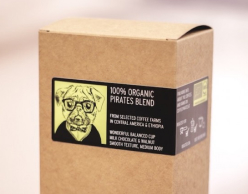
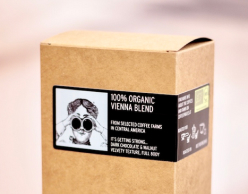
- заполнен массив каталога для эспрессо (6 товаров) - добавлена функция скролла и вызова скролла - доработано наполнение элементов

diff --git a/js/catalog.js b/js/catalog.js
@@ -2,36 +2,72 @@ const catalog = [
     {
         id: 0,
         title: 'Пиратский бленд',
-        image: 'img/item-image/001.jpg',
+        image: 'img/item-image/000.jpg',
         region: 'Эфиопия, Колумбия',
         description: 'Легендарная и на 100% органическая смесь эспрессо для настоящих разбойников',
         kislotnost: 70,
-        gorech: 35,
+        gorech: 80,
         plotnost: 15,
-        price_low: 685,
-        price_big: 2450,
+        price_low: 1020,
+        price_big: 3870,
     },
     {
         id: 1,
-        title: 'Бла-бла-бла',
+        title: 'Венская смесь',
         image: 'img/item-image/001.jpg',
-        region: 'Гватемалла',
-        description: 'Просто очень вкусный кофе',
-        kislotnost: 25,
-        gorech: 50,
-        plotnost: 75,
-        price_low: 560,
-        price_big: 2120,
+        region: 'Колумбия, Гондурас, Гватемалла',
+        description: 'Смелый европейскй бленд, пользующийся популярностью по всему миру. Во вкусе лимон, ягоды и шоколад.',
+        kislotnost: 50,
+        gorech: 60,
+        plotnost: 20,
+        price_low: 1070,
+        price_big: 4100,
+    },
+    {
+        id: 2,
+        title: 'Колумбия Ла Ред Эколсиерра',
+        image: 'img/item-image/002.jpg',
+        region: 'Колумбия',
+        description: 'Деликатный и хорошо читаемый кофе со вкусом лесных ягод, чая с цитрусами и цветочными нотами!',
+        kislotnost: 30,
+        gorech: 80,
+        plotnost: 10,
+        price_low: 1035,
+        price_big: '---',
     },
     {
         id: 3,
-        title: 'Хаха получилось',
-        image: 'img/item-image/001.jpg',
-        region: 'Индонезия',
-        description: 'Описание будет позже',
-        kislotnost: 90,
-        gorech: 20,
-        plotnost: 35,
+        title: 'Сальвадор Ана Гонзалез',
+        image: 'img/item-image/003.jpg',
+        region: 'Сальвадор',
+        description: 'Сладкий сбалансированный кофе с нотами запеченного яблока, фейхоа и ореховыми нотами.',
+        kislotnost: 50,
+        gorech: 85,
+        plotnost: 15,
+        price_low: 820,
+        price_big: 2450,
+    },
+    {
+        id: 4,
+        title: 'Гондурас Комса',
+        image: 'img/item-image/004.jpg',
+        region: 'Гондурас',
+        description: 'Яркий и искристый кофе со вкусом темных фруктов, ягод и портвейна!',
+        kislotnost: 70,
+        gorech: 60,
+        plotnost: 15,
+        price_low: 890,
+        price_big: 3450,
+    },
+    {
+        id: 5,
+        title: 'Колумбия Дёзи Харт',
+        image: 'img/item-image/005.jpg',
+        region: 'Колумбия',
+        description: 'Яркий кофе с букетом тропических фруктов: гуава, папайя, ананас, и арбузно-сливочным пломбиром во вкусе и характерной молочной ',
+        kislotnost: 30,
+        gorech: 60,
+        plotnost: 70,
         price_low: 710,
         price_big: 2200,
     }

diff --git a/test.html b/test.html
@@ -1,0 +1,90 @@
+<html lang="ru">
+
+<head>
+    <title>Sling Academy</title>
+    <!-- CSS -->
+    <style>
+        * {
+            margin: 0;
+            padding: 0;
+        }
+
+        body {
+            padding: 40px;
+        }
+
+        button {
+            padding: 10px;
+            margin: 10px 20px 10px 0;
+            border: 1px solid black;
+            border-radius: 5px;
+            cursor: pointer;
+        }
+
+        button:hover {
+            background-color: orange;
+        }
+
+        #myDiv {
+            width: 400px;
+            height: 200px;
+            overflow-y: scroll;
+            border: 1px solid black;
+            background: rgb(244, 233, 214);
+        }
+    </style>
+
+    <!-- JavaScript -->
+    <script>
+        // define a function to scroll to the bottom of the div
+        const scrollToBottom = () => {
+            // get the div element by its id
+            const div = document.getElementById("myDiv");
+            // smooth scroll to the bottom of the div
+            div.scrollTo({
+                top: div.scrollHeight,
+                behavior: 'smooth'
+            });
+
+        }
+
+        // define a function to scroll to the top of the div
+        const scrollToTop = () => {
+            // get the div element by its id
+            const div = document.getElementById("myDiv");
+            // smooth scroll to the top of the div
+            div.scrollTo({
+                top: 0,
+                behavior: 'smooth'
+            });
+        }
+    </script>
+</head>
+
+<body>
+<!-- create a button element that calls scrollToBottom function -->
+<button onclick="scrollToBottom()">Scroll to bottom</button>
+
+<!-- create another button element that calls scrollToTop function -->
+<button onclick="scrollToTop()">Scroll to top</button>
+
+<!-- create a div element -->
+<div id="myDiv">
+    <!-- Just add some dummy contents to make the div higher -->
+    <p>Lorem ipsum dolor sit amet, consectetur adipiscing elit. Sed quis nisl vitae nisi tincidunt lacinia. Fusce
+        nec leo eget augue aliquet ullamcorper. Morbi quis semper arcu.</p>
+    <p>Phasellus sed lacus et lorem consequat malesuada ut ac mi. Sed euismod lectus non eros sollicitudin, at
+        ultricies sapien ornare.</p>
+    <p>Vivamus ut leo vitae justo sagittis tristique sit amet non odio. Pellentesque habitant morbi tristique
+        senectus et netus et malesuada fames ac turpis egestas.</p>
+    <p>Nullam vel nunc eget massa blandit constius sed at nibh. Curabitur vitae felis quis ante rutrum fringilla.</p>
+    <p>Etiam euismod tellus nec velit feugiat, vel tincidunt diam ullamcorper. Donec sit amet neque quis magna
+        eleifend faucibus.</p>
+    <p>Mauris id nisi vitae nulla bibendum mattis ut sit amet erat. Cras euismod velit ut lorem gravida, at
+        vulputate quam aliquet.</p>
+    <p>Nunc quis augue sed justo iaculis consequat ac vel risus. Suspendisse potenti.</p>
+</div>
+
+</body>
+
+</html>

diff --git a/js/catalog_espresso_main.js b/js/catalog_espresso_main.js
@@ -1,28 +1,23 @@
-const items = document.querySelector('.items')
-const itemSample = document.querySelector('.item-card').cloneNode(true)
-document.querySelector('.item-card').remove()
-// itemSample.querySelector('.item-card-title').innerHTML = catalog[0].title
-// console.log(catalog[0].title)
-// itemSample.querySelector('.item-image').setAttribute('src', catalog[0].image)
-// itemSample.querySelector('.description').innerHTML = catalog[0].description
-// itemSample.querySelector('.kislotnost').style.width = `${catalog[0].kislotnost}%`
-// itemSample.querySelector('.gorech').style.width = `${catalog[0].gorech}%`
-// itemSample.querySelector('.plotnost').style.width = `${catalog[0].plotnost}%`
-// itemSample.querySelector('.small-price').textContent = catalog[0].price_low
-// itemSample.querySelector('.big-price').textContent = catalog[0].price_big
-// newItem.id = `card${itemIndex}`
-catalog.forEach((element) => {
-    let newItem = itemSample.cloneNode(true)
-    newItem.querySelector('.item-card-title').innerHTML = element.title
+const items = document.querySelector('.items') //родительский узел
+const itemSample = items.querySelector('.item-card').cloneNode(true) //создаем виртуальный сэмпл карточки
+items.querySelector('.item-card').remove() //удаляем оригинальную карточку
+let index = 0 //индекс (чисто для нумерации на странице)
+catalog.forEach((element) => { //для всех элементов массива каталога
+    let newItem = itemSample.cloneNode(true)  //создаем новый виртуальный элемент из сэмпла глубоким копированием
+    newItem.id = `card${index}` //ставим индекс в айди
+    index++
+    newItem.setAttribute('articul-id', element.id) //артикул
+    newItem.querySelector('.item-card-title').innerHTML = element.title //название
     newItem.querySelector('.item-image').setAttribute('src', element.image)
-    newItem.querySelector('.description').innerHTML = element.description
+    newItem.querySelector('.description').textContent = element.description
+    newItem.querySelector('.card-row-5').textContent = element.region
     newItem.querySelector('.kislotnost').style.width = `${element.kislotnost}%`
     newItem.querySelector('.gorech').style.width = `${element.gorech}%`
     newItem.querySelector('.plotnost').style.width = `${element.plotnost}%`
     newItem.querySelector('.small-price').textContent = element.price_low
     newItem.querySelector('.big-price').textContent = element.price_big
-    newItem.setAttribute('style', '')
-    items.append(newItem)
+    newItem.setAttribute('style', '') //убираем display: none
+    items.append(newItem) //добавляем в родителя созданный элемент
     console.log(newItem)
-
 })
+

diff --git a/js/scroll.js b/js/scroll.js
@@ -1,0 +1,30 @@
+function scrollCatalogItems(parentName, toRight) { //принимаем имя родителя (то где будем скроллить), вправо-истина, влево-ложь
+    let scrollParent = document.querySelector(parentName) //ищем родителя - внешний элемент
+    let current_position = Number(scrollParent.getAttribute('scroll')) //восстанавливаем по атрибуту родителя текущую позицию (то, на какой элемент мы проскроллиллись в прошлый раз)
+    let count = scrollParent.getElementsByClassName('item-card').length //считаем количество элементов
+    console.log(count)
+    let switcherImg = scrollParent.parentElement.querySelector('.switcher-img') //ищем картинку переключателя в родителе родителя
+    console.log(switcherImg)
+    if (toRight) { //если направо мотаем
+        if (current_position + 3 <= count - 3) { //если справа есть еще три карточки
+            current_position += 3 //увеличиваем текущую позицию
+            switcherImg.src = "img/icons/switch2_2_22x8.svg" //меняем картинку переключателя
+        }
+    } else {
+        if (current_position - 3 >= 0) {
+            current_position -= 3
+            switcherImg.src = "img/icons/switch2_1_22x8.svg"
+        }
+    }
+    console.log("cp", current_position)
+    let scrollTarget = scrollParent.querySelector(`#card${current_position}`).offsetLeft //определяем сколько пикселей слева от начала родителя у элемента к которому мы скроллим
+    console.log(scrollTarget)
+    scrollParent.scrollTo({ //скролл плавный
+        left: scrollTarget,
+        behavior: 'smooth'
+    })
+    scrollParent.setAttribute('scroll', current_position) //сохраняем в атрибут родителя куда мы проскроллили
+}
+
+
+

diff --git a/index.html b/index.html
@@ -115,9 +115,11 @@
             <div class="section-header">
                 <h3>Для эспрессо</h3>
                 <div class="switcher">
-                    <button class="left"><img src="img/icons/switch_arrow_left22.svg" alt="влево"></button>
-                    <img src="img/icons/switch1_36x8.svg" alt="влево">
-                    <button class="left"><img src="img/icons/switch_arrow_right22.svg" alt="влево"></button>
+                    <button class="left" onclick="scrollCatalogItems('.items', false)"><img
+                            src="img/icons/switch_arrow_left22.svg" alt="влево"></button>
+                    <img class="switcher-img" src="img/icons/switch2_1_22x8.svg" alt="влево">
+                    <button class="right" onclick="scrollCatalogItems('.items', true)"><img
+                            src="img/icons/switch_arrow_right22.svg" alt="вправо"></button>
                 </div>
                 <a href="#" class="button brown-text">
                     <p>Посмотреть все</p>
@@ -125,7 +127,7 @@
                     <div class="button-underline beige"></div>
                 </a>
             </div>
-            <div class="items">
+            <div class="items" scroll="0">
                 <div class="item-card" style="display: none;">
                     <div class="item-card-top">
                         <div class="card-background light shadow"></div>
@@ -204,6 +206,7 @@
     </div>
     <script src="js/catalog.js"></script>
     <script src="js/catalog_espresso_main.js"></script>
+    <script src="js/scroll.js"></script>
 </section>
 <footer class="footer" id="footer">
 

diff --git a/style/style.css b/style/style.css
@@ -356,11 +356,12 @@ section {
 
 .items {
     display: flex;
-    /*flex-direction: row;*/
-    /*align-items: flex-start;*/
+    position: relative;
     flex-wrap: nowrap;
     overflow-x: auto;
     max-width: 1030px;
+    /*flex-direction: row;*/
+    /*align-items: flex-start;*/
 }
 
 .items .item-card:last-child {
